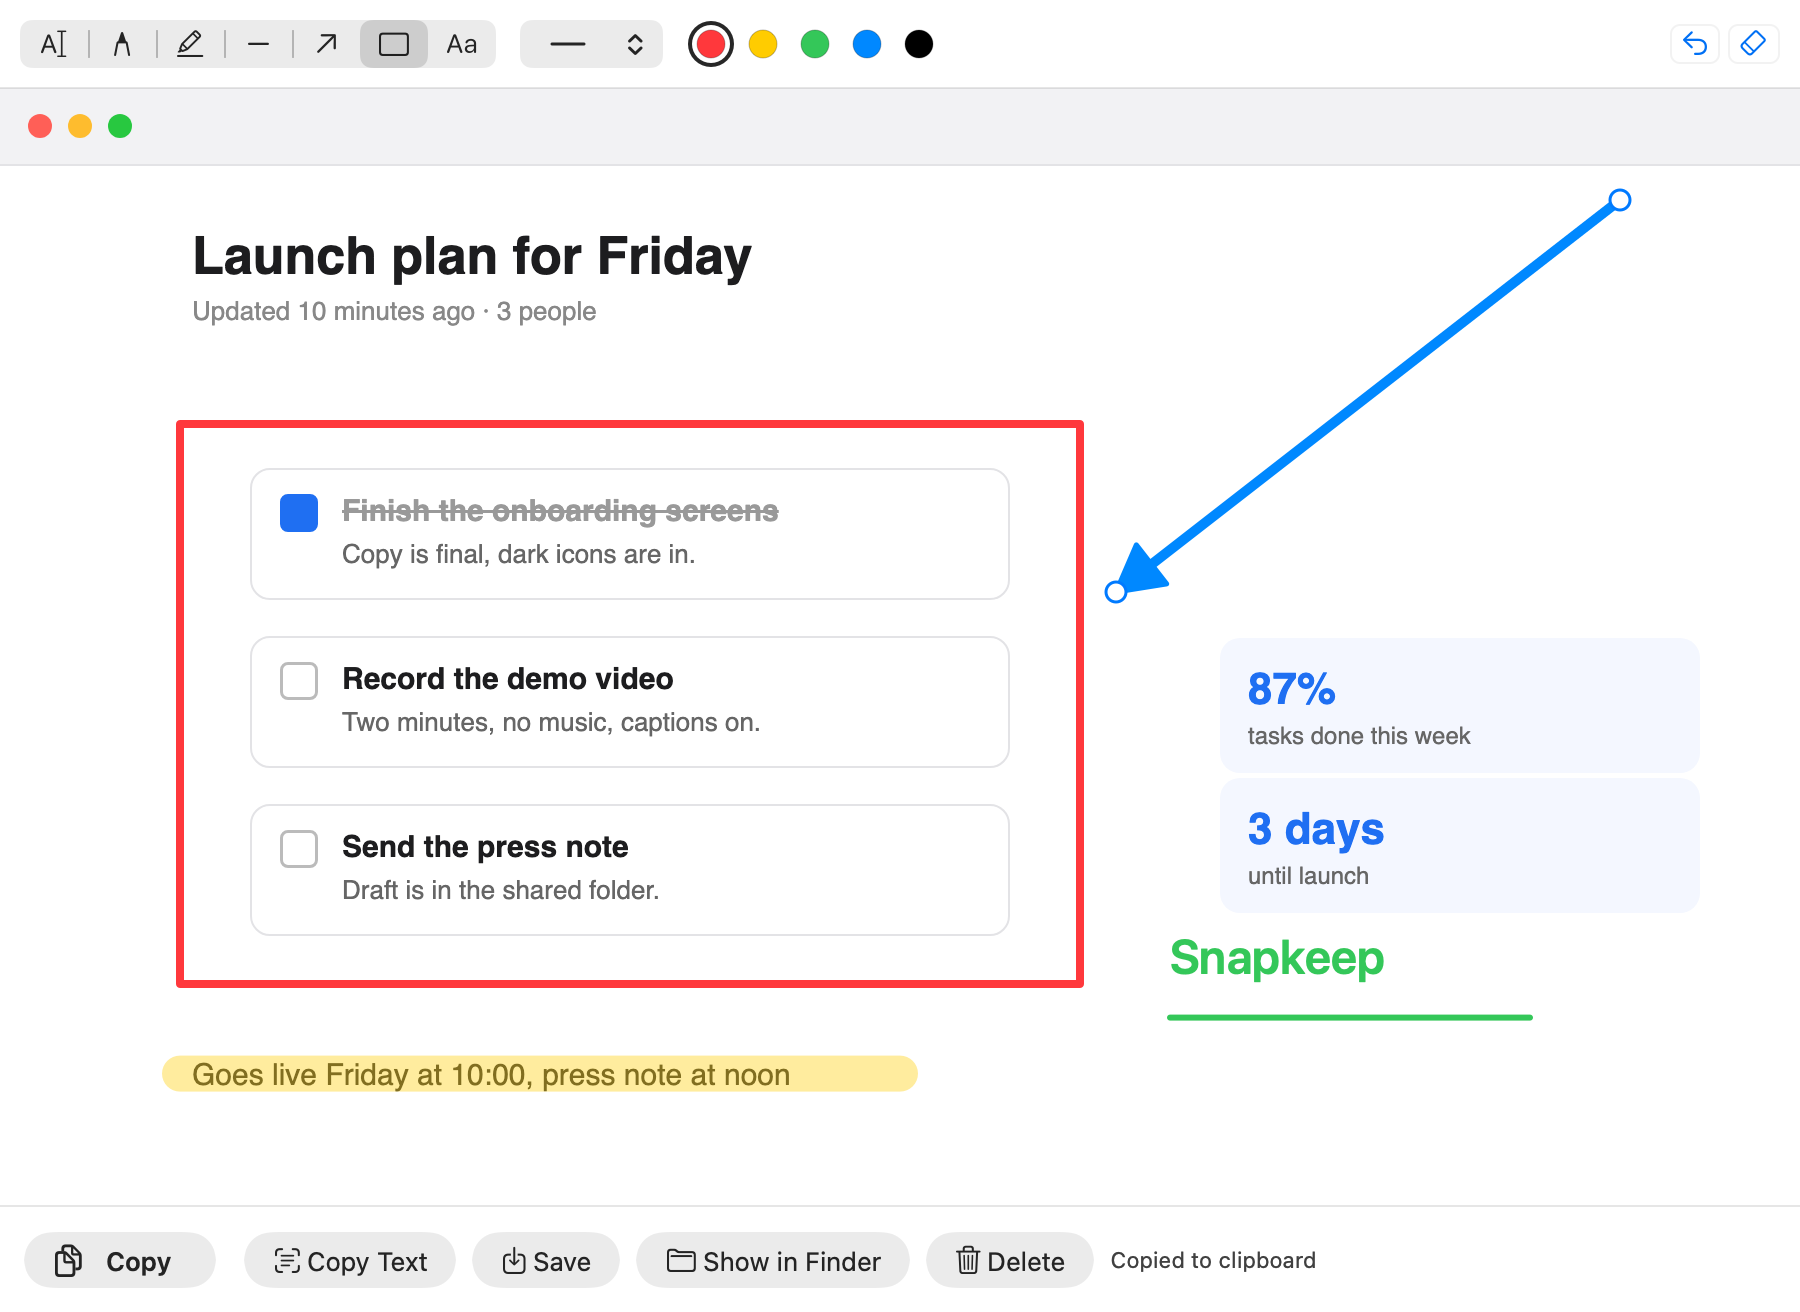
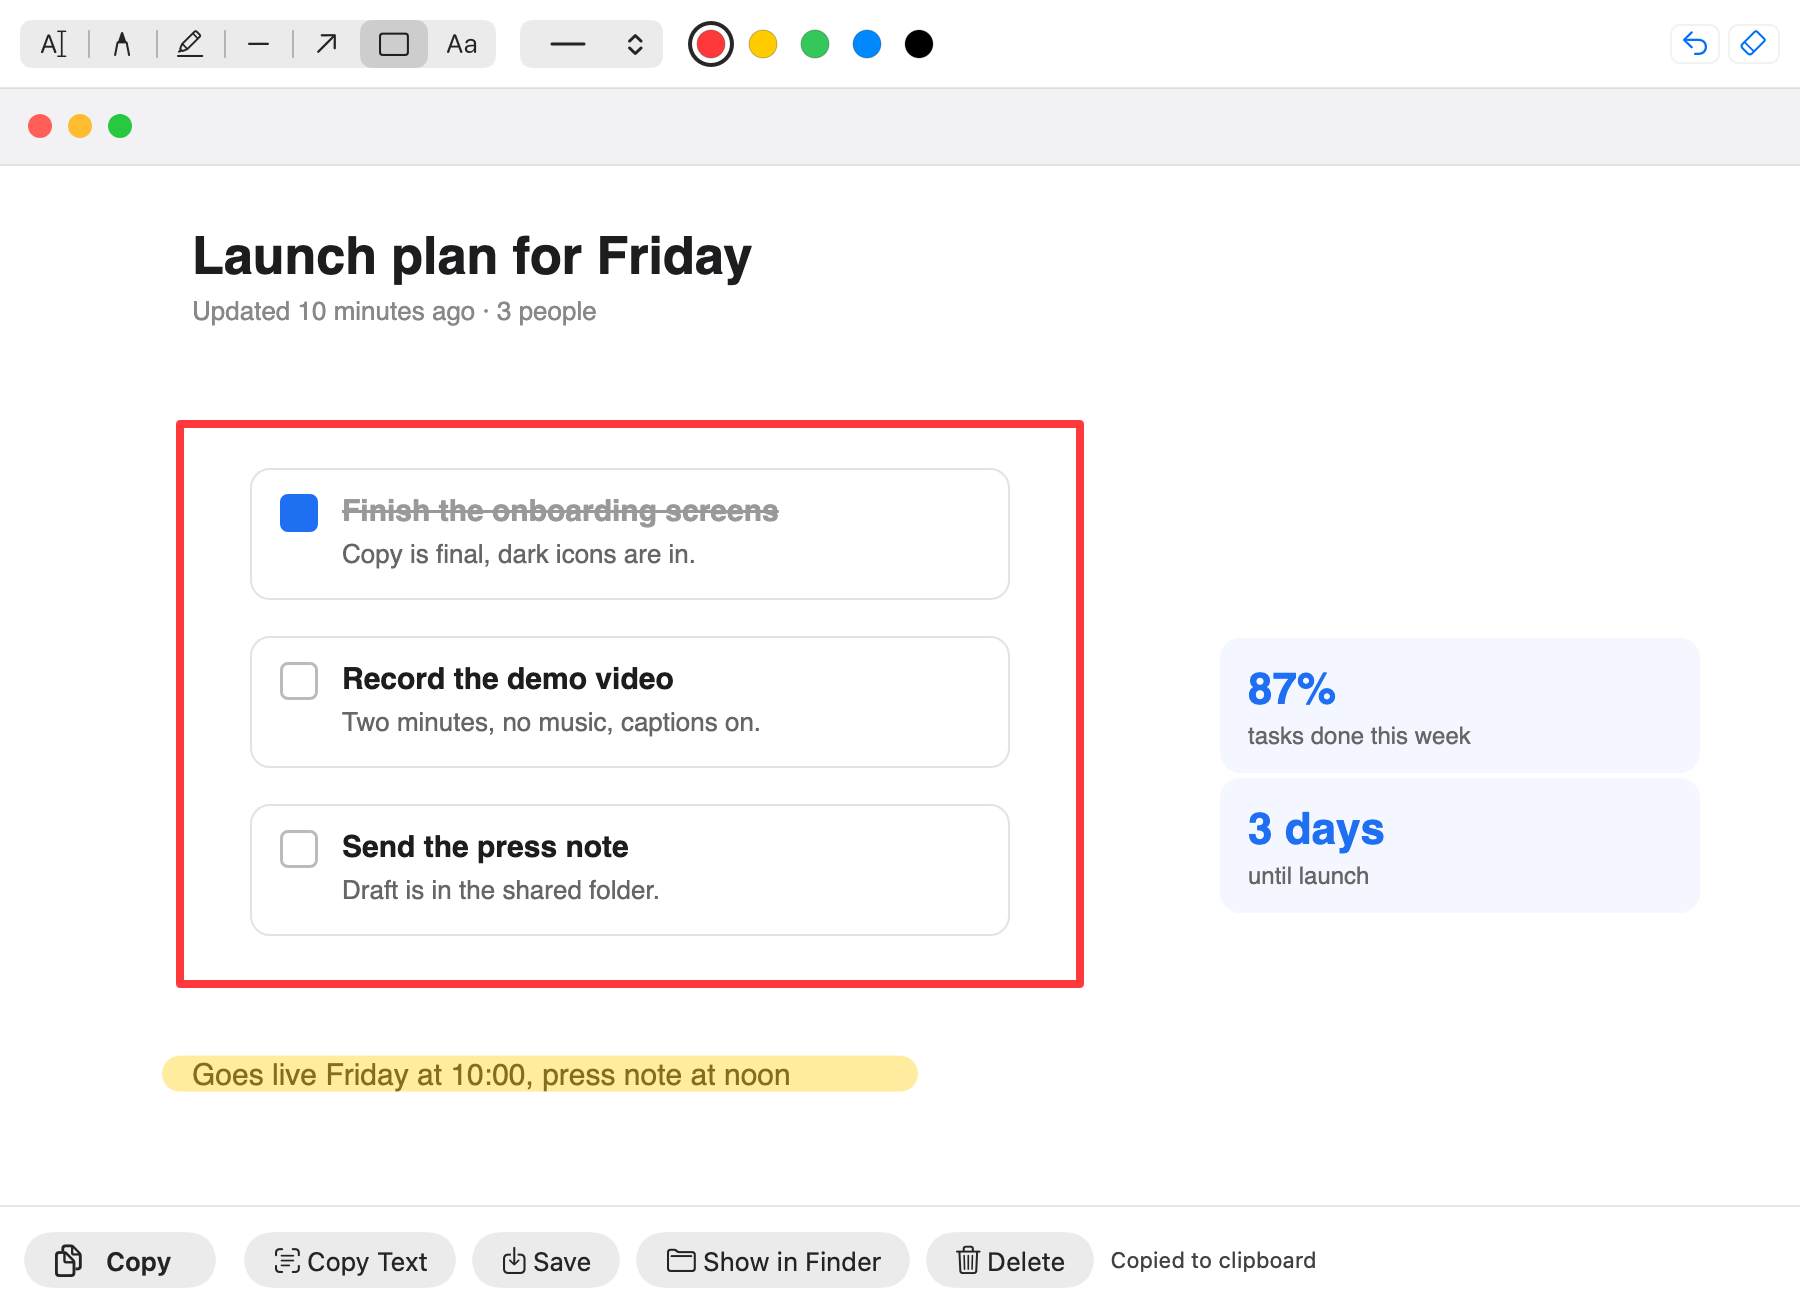
Drop the arrow and text label from the download page's screenshot
--render-preview takes --site to draw only the sample box and highlight;
scripts/site-screenshot/make.sh uses it. The full self-check is unchanged.

diff --git a/Sources/Snapkeep/AppDelegate.swift b/Sources/Snapkeep/AppDelegate.swift
@@ -372,14 +372,16 @@ final class AppDelegate: NSObject, NSApplicationDelegate, NSMenuDelegate {
 
     // MARK: Self-check
 
-    /// `Snapkeep --render-preview in.png out-dir`: opens a preview with sample drawings, waits for
-    /// Live Text, then writes the window and the exported image to out-dir and quits.
+    /// `Snapkeep --render-preview in.png out-dir [--site]`: opens a preview with sample drawings,
+    /// waits for Live Text, then writes the window and the exported image to out-dir and quits.
+    /// --site draws only the box and the highlight, for the download page's screenshot.
     private func runRenderCheck(arguments: [String]) {
         guard arguments.count >= 2, let screenshot = Screenshot.load(URL(fileURLWithPath: arguments[0])) else {
-            print("usage: Snapkeep --render-preview <image.png> <output-dir>")
+            print("usage: Snapkeep --render-preview <image.png> <output-dir> [--site]")
             exit(2)
         }
         let output = URL(fileURLWithPath: arguments[1], isDirectory: true)
+        let forSite = arguments.dropFirst(2).contains("--site")
         let preview = openPreview(screenshot, status: "Copied to clipboard")
         let started = Date()
         Task { @MainActor in
@@ -387,7 +389,7 @@ final class AppDelegate: NSObject, NSApplicationDelegate, NSMenuDelegate {
             print(String(format: "live-text-seconds %.3f", Date().timeIntervalSince(started)))
             do {
                 try preview.renderWindow(to: output.appendingPathComponent("window-plain.png"))
-                preview.addSampleDrawings()
+                preview.addSampleDrawings(forSite: forSite)
                 try await Task.sleep(for: .milliseconds(100))
                 try preview.renderWindow(to: output.appendingPathComponent("window-drawn.png"))
                 try preview.currentPNG()?.write(to: output.appendingPathComponent("export.png"))

diff --git a/Sources/Snapkeep/PreviewController.swift b/Sources/Snapkeep/PreviewController.swift
@@ -545,8 +545,8 @@ final class PreviewController: NSObject, NSWindowDelegate {
         try rep.representation(using: .png, properties: [:])?.write(to: url)
     }
 
-    /// Simulates drawing for the self-check render.
-    func addSampleDrawings() {
+    /// Simulates drawing for the self-check render. forSite keeps only the box and the highlight.
+    func addSampleDrawings(forSite: Bool = false) {
         selectTool(.rectangle)
         let samples: [Annotation] = [
             .rectangle(CGRect(x: screenshot.pixelSize.width * 0.1, y: screenshot.pixelSize.height * 0.2,
@@ -564,6 +564,15 @@ final class PreviewController: NSObject, NSWindowDelegate {
                   to: CGPoint(x: screenshot.pixelSize.width * 0.85, y: screenshot.pixelSize.height * 0.17),
                   color: .systemGreen, width: 6),
         ]
+        if forSite {
+            samples.filter {
+                switch $0.shape {
+                case .rectangle, .highlighter: return true
+                default: return false
+                }
+            }.forEach(canvas.add)
+            return
+        }
         samples.forEach(canvas.add)
         canvas.select(1) // shows the handles on the arrow
     }

diff --git a/README.md b/README.md
@@ -233,7 +233,8 @@ build/Snapkeep.app/Contents/MacOS/Snapkeep --render-recording out-dir/
 ```
 
 `--render-preview` writes `window-plain.png`, `window-drawn.png` (with sample drawings) and
-`export.png`, and prints how long Live Text took. `--render-overlay` draws the capture overlay over
+`export.png`, and prints how long Live Text took. With `--site` after the folder, it draws only the
+box and the highlight, as on the download page. `--render-overlay` draws the capture overlay over
 `screen.png` while hovering a window and with a snapped selection, writes the cropped capture, and
 renders Copy Text mode before and after Select Text and after a copy (`overlay-text.png`,
 `overlay-text-picking.png`, `overlay-text-copied.png`).
